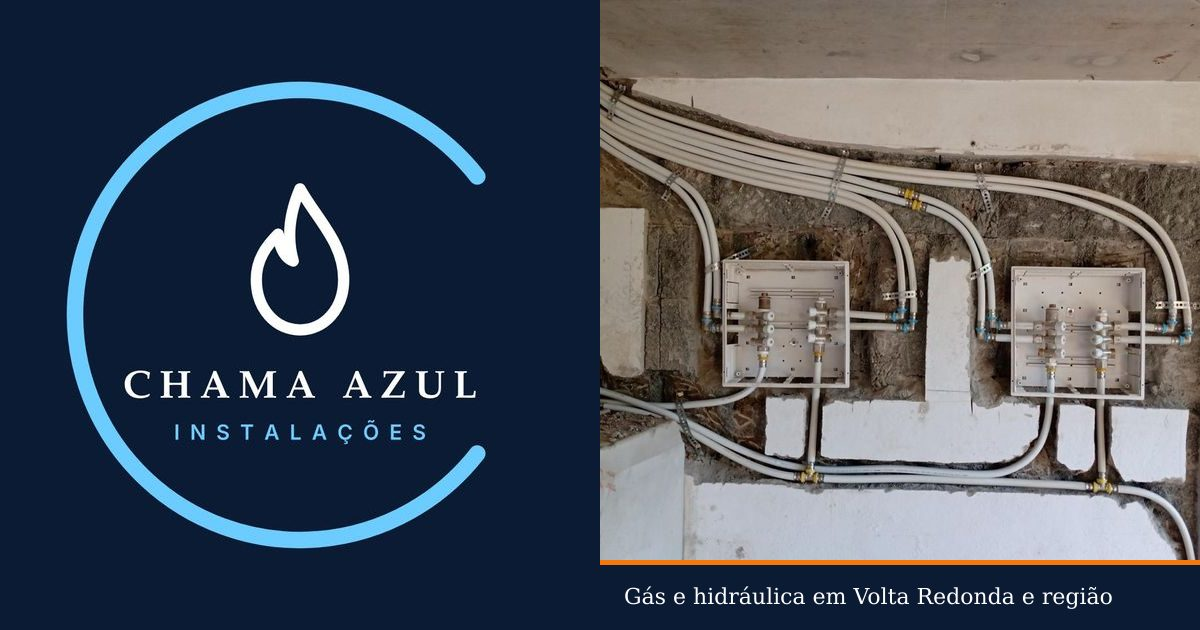
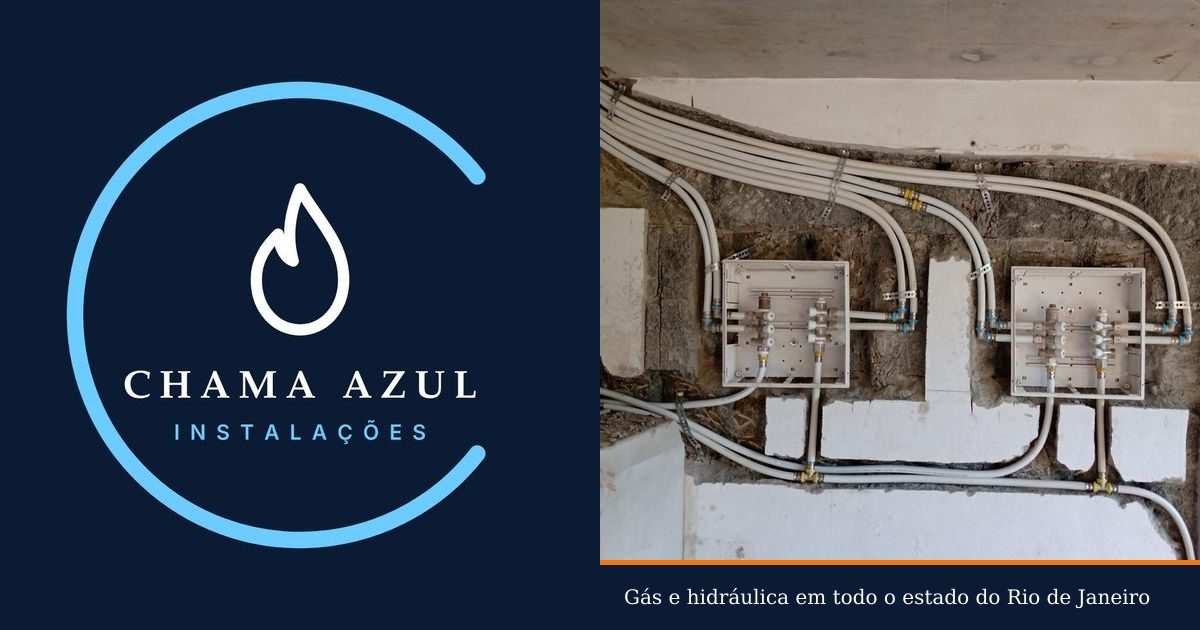
feat: atendimento em todo o estado do Rio de Janeiro
- Título, subtítulo, Sobre, Área de atendimento, FAQ e rodapé citam todo o estado do RJ
- SEO: título e descrição centralizados em site.config.ts; areaServed inclui o estado
- Imagem de compartilhamento com a nova legenda

Claude-Session: https://claude.ai/code/session_0156aGqZwGYA888c3H9iysAn

Changed region(s): [[0.5242, 0.9349, 0.9558, 0.9651]]

diff --git a/src/site.config.ts b/src/site.config.ts
@@ -64,6 +64,10 @@ export const site = {
 
   cidadeBase: 'Volta Redonda',
   estado: 'RJ',
+  estadoNome: 'Rio de Janeiro',
+  // Área de atendimento, usada nos textos do site e no SEO.
+  areaAtendimento: 'todo o estado do Rio de Janeiro',
+  // Cidades em destaque na seção "Área de atendimento" (além de todo o estado).
   cidadesAtendidas: [
     'Volta Redonda',
     'Barra Mansa',
@@ -73,7 +77,6 @@ export const site = {
     'Resende',
     'Bananal',
   ],
-  regiao: 'Sul Fluminense',
 
   // Link do Google Maps. Quando tiver o perfil no Google Meu Negócio, cole o link dele aqui.
   googleMapsUrl: 'https://www.google.com/maps/search/?api=1&query=Volta+Redonda+RJ',
@@ -85,9 +88,10 @@ export const site = {
   },
 
   hero: {
-    titulo: 'Instalações de gás e hidráulica com segurança e garantia em Volta Redonda e região',
+    titulo:
+      'Instalações de gás e hidráulica com segurança e garantia em todo o estado do Rio de Janeiro',
     subtitulo:
-      'Redes de gás, hidráulica em multicamadas, boiler, aquecimento e fogões. Orçamento detalhado por escrito e atendimento direto com o responsável técnico.',
+      'Base em Volta Redonda, com atendimento em todo o estado do RJ. Redes de gás, hidráulica em multicamadas, boiler, aquecimento e fogões, com orçamento detalhado por escrito e atendimento direto com o responsável técnico.',
     selos: [
       'Orçamento por escrito',
       'Garantia no serviço',
@@ -212,9 +216,16 @@ export const site = {
     {
       pergunta: 'Quais cidades vocês atendem?',
       resposta:
-        'Volta Redonda, Barra Mansa, Pinheiral, Barra do Piraí, Piraí, Resende, Bananal e região do Sul Fluminense.',
+        'Atendemos todo o estado do Rio de Janeiro, com base em Volta Redonda. Atendemos também Barra Mansa, Pinheiral, Barra do Piraí, Piraí, Resende e Bananal.',
     },
   ] satisfies Pergunta[],
+
+  // Título e descrição da página inicial (Google, WhatsApp, redes sociais).
+  seo: {
+    titulo: 'Chama Azul Instalações | Gás e hidráulica em Volta Redonda e todo o RJ',
+    descricao:
+      'Instalação e manutenção de redes de gás, hidráulica em multicamadas, boiler, aquecimento e fogões em Volta Redonda e todo o estado do Rio de Janeiro. Orçamento detalhado por escrito e garantia no serviço.',
+  },
 
   // Deixe vazio para não usar analytics. Se ativar, atualize a Política de Privacidade.
   analyticsId: '',

diff --git a/src/sections/AreaAtendimento.tsx b/src/sections/AreaAtendimento.tsx
@@ -7,10 +7,17 @@ export function AreaAtendimento() {
     <Secao
       id="area-atendimento"
       titulo="Área de atendimento"
-      intro={`Base em ${site.cidadeBase}, ${site.estado}. Atendemos também as cidades abaixo e a região do ${site.regiao}.`}
+      intro={`Base em ${site.cidadeBase}, ${site.estado}, com atendimento em ${site.areaAtendimento}.`}
       fundo="creme"
     >
-      <ul className="flex flex-wrap gap-3">
+      <p className="inline-flex items-center gap-2 rounded-full bg-marinho px-5 py-2.5 font-semibold text-white">
+        <Icone nome="mapa" className="h-5 w-5 text-laranja" />
+        Todo o estado do {site.estadoNome}
+      </p>
+      <h3 className="mt-8 font-sans text-base font-semibold text-suave">
+        Base em {site.cidadeBase} e cidades próximas
+      </h3>
+      <ul className="mt-3 flex flex-wrap gap-3">
         {site.cidadesAtendidas.map((c) => (
           <li
             key={c}
@@ -20,9 +27,6 @@ export function AreaAtendimento() {
             {c}
           </li>
         ))}
-        <li className="inline-flex items-center rounded-full border border-dashed border-borda px-4 py-2 text-suave">
-          e região do {site.regiao}
-        </li>
       </ul>
       <a
         href={site.googleMapsUrl}

diff --git a/vite.config.ts b/vite.config.ts
@@ -3,8 +3,8 @@ import react from '@vitejs/plugin-react';
 import { site } from './src/site.config';
 import logoVetor from './src/data/logo-vetor.json';
 
-const titulo = `${site.nome} | Gás e hidráulica em ${site.cidadeBase} e região`;
-const descricao = `Instalação e manutenção de redes de gás, hidráulica em multicamadas, boiler, aquecimento e fogões em ${site.cidadeBase} e região. Orçamento detalhado por escrito e garantia no serviço.`;
+const titulo = site.seo.titulo;
+const descricao = site.seo.descricao;
 
 const jsonLd = {
   '@context': 'https://schema.org',
@@ -22,7 +22,10 @@ const jsonLd = {
     addressRegion: site.estado,
     addressCountry: 'BR',
   },
-  areaServed: site.cidadesAtendidas.map((c) => ({ '@type': 'City', name: c })),
+  areaServed: [
+    { '@type': 'State', name: site.estadoNome },
+    ...site.cidadesAtendidas.map((c) => ({ '@type': 'City', name: c })),
+  ],
   sameAs: [site.contato.instagramUrl],
   employee: { '@type': 'Person', name: site.responsavelTecnico, jobTitle: 'Responsável técnico' },
   knowsAbout: site.servicos.map((s) => s.titulo),

diff --git a/src/sections/Sobre.tsx b/src/sections/Sobre.tsx
@@ -14,9 +14,9 @@ export function Sobre() {
             Por que a Chama Azul
           </h2>
           <p className="mt-3 max-w-2xl text-lg text-suave">
-            A {site.nome} atende {site.cidadeBase} e a região do {site.regiao}, com o responsável
-            técnico {site.responsavelTecnico} à frente de cada serviço. O mesmo CNPJ atende também a{' '}
-            {site.marcaIrma}.
+            A {site.nome} tem base em {site.cidadeBase} e atende {site.areaAtendimento}, com o
+            responsável técnico {site.responsavelTecnico} à frente de cada serviço. O mesmo CNPJ
+            atende também a {site.marcaIrma}.
           </p>
           <ul className="mt-10 grid gap-5 sm:grid-cols-2">
             {site.diferenciais.map((d) => (

diff --git a/src/pages/Inicio.tsx b/src/pages/Inicio.tsx
@@ -19,10 +19,7 @@ export function Inicio() {
   const { secao } = useParams();
   const local = useLocation();
 
-  useSeo(
-    `${site.nome} | Gás e hidráulica em ${site.cidadeBase} e região`,
-    `Instalação e manutenção de redes de gás, hidráulica em multicamadas, boiler, aquecimento e fogões em ${site.cidadeBase} e região. Orçamento detalhado por escrito e garantia no serviço.`,
-  );
+  useSeo(site.seo.titulo, site.seo.descricao);
 
   // Rolagem até a seção pedida (ex.: #/servicos), descontando o topo fixo via scroll-margin.
   useEffect(() => {

diff --git a/src/components/Rodape.tsx b/src/components/Rodape.tsx
@@ -11,8 +11,8 @@ export function Rodape() {
         <div>
           <Logo tamanho={128} />
           <p className="mt-4 max-w-xs text-sm">
-            Instalações de gás, hidráulica, aquecimento e fogões em {site.cidadeBase} e região do{' '}
-            {site.regiao}.
+            Instalações de gás, hidráulica, aquecimento e fogões. Base em {site.cidadeBase}, com
+            atendimento em {site.areaAtendimento}.
           </p>
           <p className="mt-2 text-sm">Marca irmã: {site.marcaIrma}.</p>
         </div>
